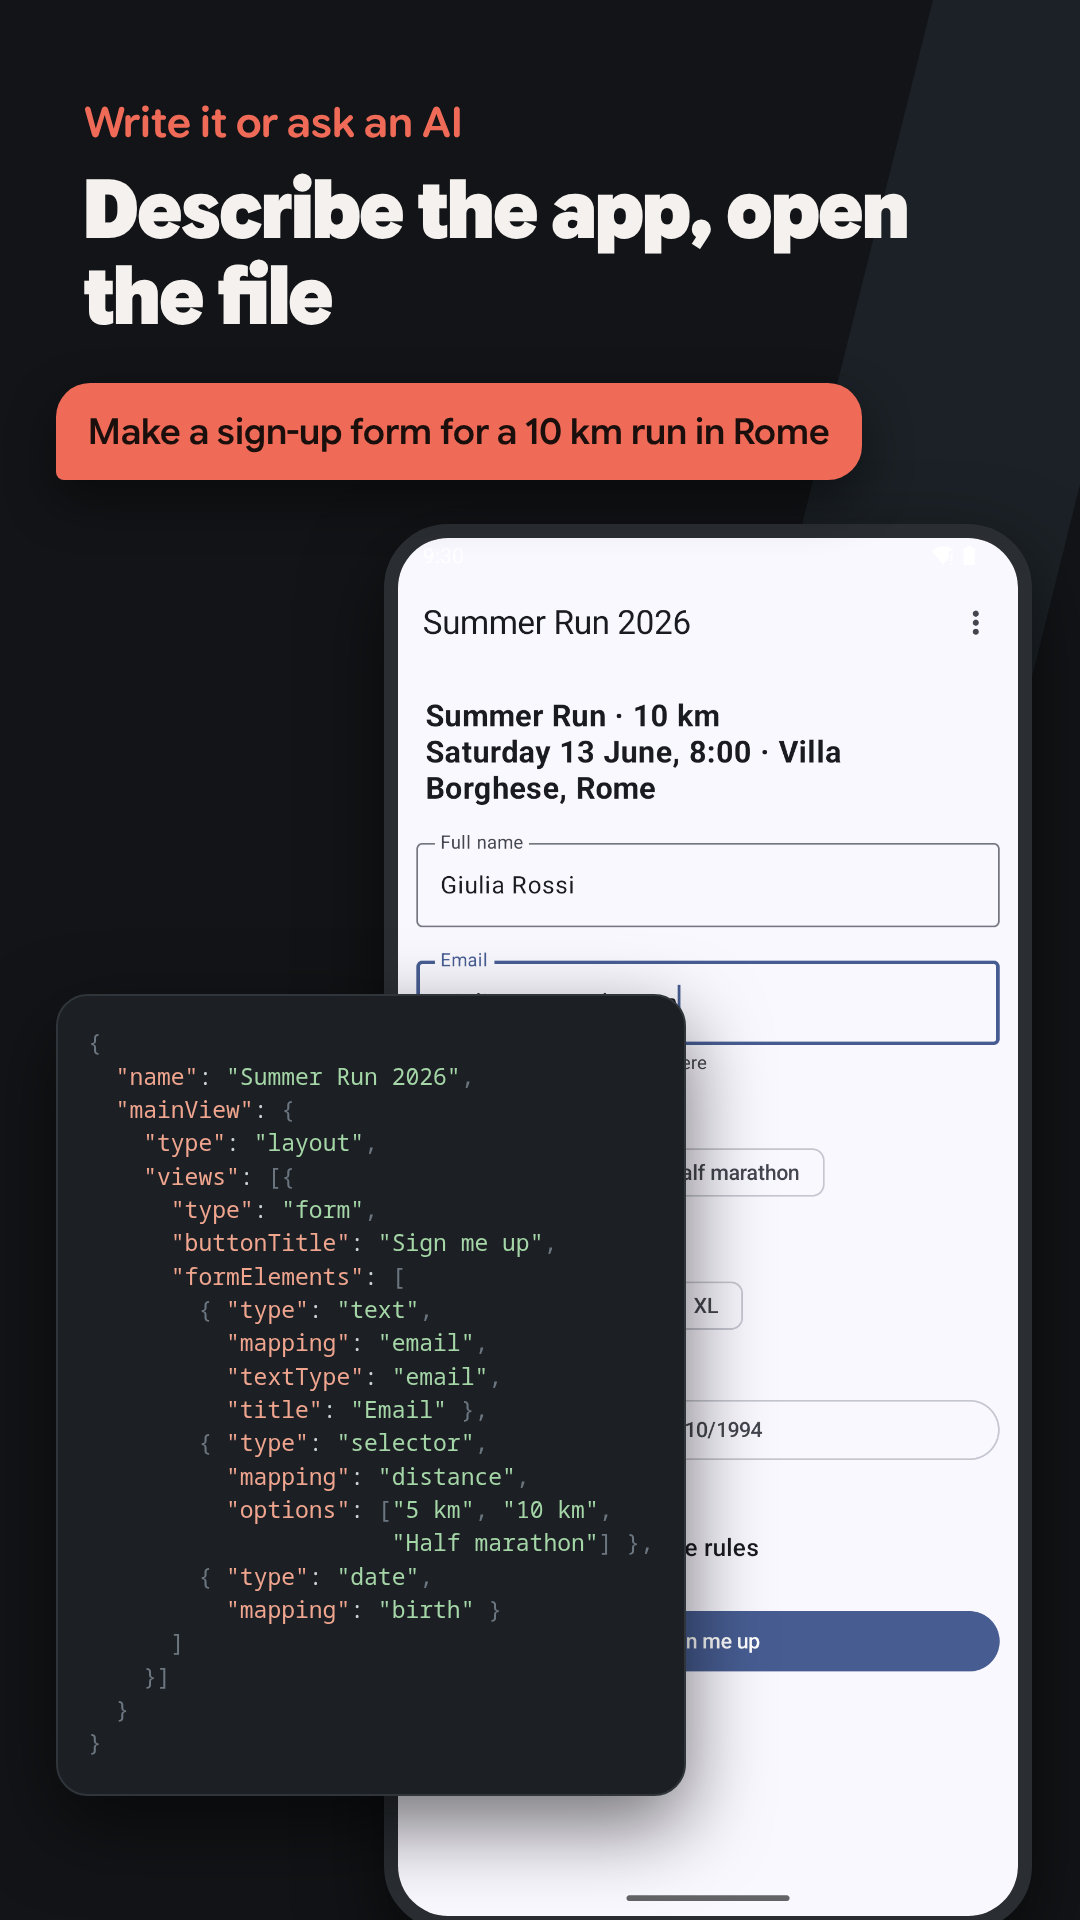
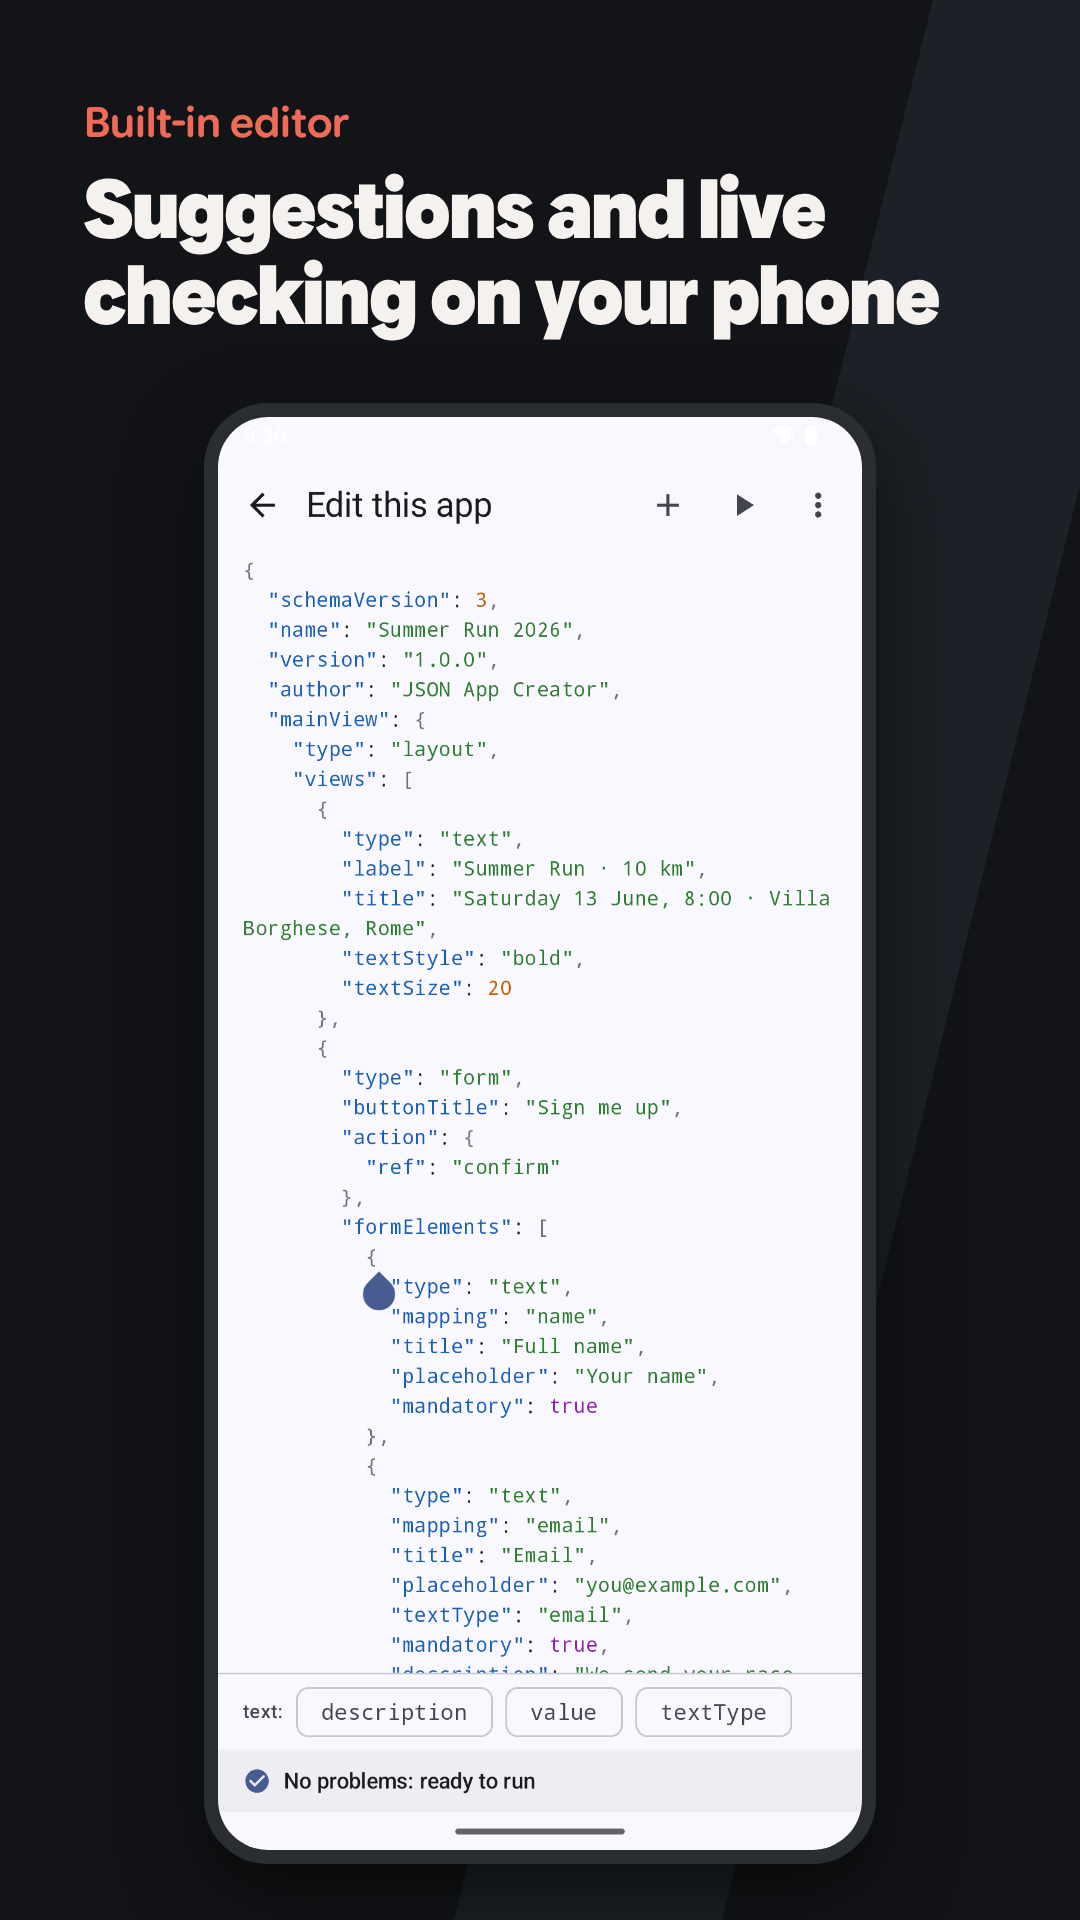
Store screenshots: the built-in editor; clearer AI app caption
A sixth phone screenshot shows the editor with its suggestions and live check, from an
emulator capture of the Summer Run example. The AI screenshot's caption now says the
round trip happens with the user's own AI app: "With your AI app — Describe it there,
open it here".

diff --git a/tools/store/captions.js b/tools/store/captions.js
@@ -7,7 +7,8 @@ const CAPTIONS = {
     detail: { kicker: "Lists and images", headline: "Tap an item, open its own screen" },
     form: { kicker: "Forms", headline: "Text, email, dates, choices and switches" },
     alert: { kicker: "Actions", headline: "Buttons that answer with your data" },
-    ai: { kicker: "Write it or ask an AI", headline: "Describe the app, open the file",
+    editor: { kicker: "Built-in editor", headline: "Suggestions and live checking on your phone" },
+    ai: { kicker: "With your AI app", headline: "Describe it there, open it here",
       prompt: "Make a sign-up form for a 10 km run in Rome", code: "form" },
   },
 };
